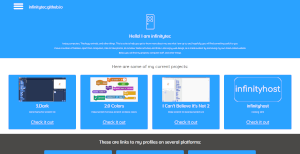
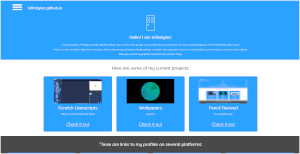
Add files via upload

diff --git a/wallpapers/wallpapers.html b/wallpapers/wallpapers.html
@@ -1,0 +1,85 @@
+<!DOCTYPE html>
+<html lang="en">
+
+<head>
+	<!--
+This is the PencilRevived theme, created by infinitytec.
+It is protected under the MIT License:
+Copyright 2019 infinitytec
+Permission is hereby granted, free of charge, to any person obtaining a copy of this software and associated documentation files (the "Software"), to deal in the Software without restriction, including without limitation the rights to use, copy, modify, merge, publish, distribute, sublicense, and/or sell copies of the Software, and to permit persons to whom the Software is furnished to do so, subject to the following conditions:
+The above copyright notice and this permission notice shall be included in all copies or substantial portions of the Software.
+THE SOFTWARE IS PROVIDED "AS IS", WITHOUT WARRANTY OF ANY KIND, EXPRESS OR IMPLIED, INCLUDING BUT NOT LIMITED TO THE WARRANTIES OF MERCHANTABILITY, FITNESS FOR A PARTICULAR PURPOSE AND NONINFRINGEMENT. IN NO EVENT SHALL THE AUTHORS OR COPYRIGHT HOLDERS BE LIABLE FOR ANY CLAIM, DAMAGES OR OTHER LIABILITY, WHETHER IN AN ACTION OF CONTRACT, TORT OR OTHERWISE, ARISING FROM, OUT OF OR IN CONNECTION WITH THE SOFTWARE OR THE USE OR OTHER DEALINGS IN THE SOFTWARE. 
+This theme is still a work-in-progress.
+-->
+	<meta charset="utf-8">
+	<meta name="viewport" content="width=device-width, initial-scale=1.0">
+	<title>infinitytec's wallpapers</title>
+	<link rel="stylesheet" type="text/css" href="../style/pencilrevived.css">
+	<link rel="shortcut icon" href="../style/icon.ico" type="image/x-icon" />
+	<script>
+		function menu() {
+			document.getElementById("navmenu").classList.toggle("show");
+		}
+
+		function closealert() {
+			document.getElementById("alert").classList.add("hide");
+		}
+
+	</script>
+</head>
+
+<body>
+	<nav>
+		<button class="hamburger" onclick="menu()"><img src="../style/hamburger.svg" alt="menu"></button>
+		<h1>infinitytec.github.io</h1>
+		<div id="navmenu">
+			<a href="../index.html">Back to Home</a>
+		</div>
+	</nav>
+	<main>
+		<section id="header" class="full blue">
+			<h1>Wallpapers</h1>
+			<p>Here is a collection of wallpapers you can use. Click to get the full resolution. Most are 4K.<br>Feel free to use them however!</p>
+		</section>
+		<section id="wallpapers" class="full grey">
+			<div class="box blue fancy">
+				<img src="preview/warp.png" alt="warp">
+				<h1>warp</h1>
+				<a href="fullresolution/warp.png" class="big">Check it out</a>
+			</div>
+			<div class="box blue fancy">
+				<img src="preview/warp2.png" alt="warp2">
+				<h1>warp2</h1>
+				<a href="fullresolution/warp2.png" class="big">Check it out</a>
+			</div>
+			<div class="box blue fancy">
+				<img src="preview/warp3.png" alt="warp3">
+				<h1>warp3</h1>
+				<a href="fullresolution/warp3.png" class="big">Check it out</a>
+			</div>
+			<div class="box blue fancy">
+				<img src="preview/warp4.png" alt="warp4">
+				<h1>warp4</h1>
+				<a href="fullresolution/warp4.png" class="big">Check it out</a>
+			</div>
+			<div class="box blue fancy">
+				<img src="preview/shards1.png" alt="shards1">
+				<h1>shards1</h1>
+				<a href="fullresolution/shards1.png" class="big">Check it out</a>
+			</div>
+			<div class="box blue fancy">
+				<img src="preview/shards2.png" alt="shards2">
+				<h1>shards2</h1>
+				<a href="fullresolution/shards2.png" class="big">Check it out</a>
+			</div>
+		</section>
+	</main>
+	<footer>
+		<p>Copyright &copy;2019, infinitytec. "infinitytec" and the door logo are trademarks of infinitytec. The theme to this site is Pencil Revived, &copy;2019 by infinitytec, under the MIT License.</p>
+		<a href="https://brave.com/inf454">
+			<p>Btw I accept BAT.</p>
+		</a>
+	</footer>
+</body>
+
+</html>

diff --git a/userscripts/userscripts.html b/userscripts/userscripts.html
@@ -1,0 +1,78 @@
+<!DOCTYPE html>
+<html lang="en">
+
+<head>
+	<!--
+This is the PencilRevived theme, created by infinitytec.
+It is protected under the MIT License:
+Copyright 2019 infinitytec
+Permission is hereby granted, free of charge, to any person obtaining a copy of this software and associated documentation files (the "Software"), to deal in the Software without restriction, including without limitation the rights to use, copy, modify, merge, publish, distribute, sublicense, and/or sell copies of the Software, and to permit persons to whom the Software is furnished to do so, subject to the following conditions:
+The above copyright notice and this permission notice shall be included in all copies or substantial portions of the Software.
+THE SOFTWARE IS PROVIDED "AS IS", WITHOUT WARRANTY OF ANY KIND, EXPRESS OR IMPLIED, INCLUDING BUT NOT LIMITED TO THE WARRANTIES OF MERCHANTABILITY, FITNESS FOR A PARTICULAR PURPOSE AND NONINFRINGEMENT. IN NO EVENT SHALL THE AUTHORS OR COPYRIGHT HOLDERS BE LIABLE FOR ANY CLAIM, DAMAGES OR OTHER LIABILITY, WHETHER IN AN ACTION OF CONTRACT, TORT OR OTHERWISE, ARISING FROM, OUT OF OR IN CONNECTION WITH THE SOFTWARE OR THE USE OR OTHER DEALINGS IN THE SOFTWARE. 
+This theme is still a work-in-progress.
+-->
+	<meta charset="utf-8">
+	<meta name="viewport" content="width=device-width, initial-scale=1.0">
+	<title>infinitytec's userscripts</title>
+	<link rel="stylesheet" type="text/css" href="../style/pencilrevived.css">
+	<link rel="shortcut icon" href="../style/icon.ico" type="image/x-icon" />
+	<script>
+		function menu() {
+			document.getElementById("navmenu").classList.toggle("show");
+		}
+
+		function closealert() {
+			document.getElementById("alert").classList.add("hide");
+		}
+
+	</script>
+</head>
+
+<body>
+	<nav>
+		<button class="hamburger" onclick="menu()"><img src="../style/hamburger.svg" alt="menu"></button>
+		<h1>infinitytec.github.io</h1>
+		<div id="navmenu">
+			<a href="../index.html">Back to Home</a>
+		</div>
+	</nav>
+	<main>
+		<section id="header" class="full blue">
+			<h1>Scratch Userscripts</h1>
+			<p>Here is a collection of Scratch userscripts I have made!</p>
+		</section>
+		<section id="userscripts" class="full white">
+			<div class="box blue fancy">
+				<img src="../style/3dark.png" alt="3dark">
+				<h1>3.Dark</h1>
+				<p>Dark theme for Scratch 3.0</p>
+				<a href="https://github.com/infinitytec/3.Dark" class="big">Check it out</a>
+			</div>
+			<div class="box blue fancy">
+				<img src="../style/2colors.png" alt="2colors">
+				<h1>2.0 Colors</h1>
+				<p>Make Scratch 3.0 have Scratch 2.0 block colors</p>
+				<a href="https://github.com/infinitytec/2.0-Colors" class="big">Check it out</a>
+			</div>
+			<div class="box blue fancy">
+				<img src="../style/2look.png" alt="not2">
+				<h1>I Can't Believe It's Not 2</h1>
+				<p>Make Scratch 3.0 look like Scratch 2.0</p>
+				<a href="https://github.com/infinitytec/I-Cant-Believe-Its-Not-2" class="big">Check it out</a>
+			</div>
+		</section>
+		<section class="full grey">
+			<h1>More eventually...</h1>
+			<h1>Probably...</h1>
+			<h1>Maybe...</h1>
+		</section>
+	</main>
+	<footer>
+		<p>Copyright &copy;2019, infinitytec. "infinitytec" and the door logo are trademarks of infinitytec. The theme to this site is Pencil Revived, &copy;2019 by infinitytec, under the MIT License.</p>
+		<a href="https://brave.com/inf454">
+			<p>Btw I accept BAT.</p>
+		</a>
+	</footer>
+</body>
+
+</html>

diff --git a/index.html b/index.html
@@ -15,6 +15,7 @@ This theme is still a work-in-progress.
 	<meta name="viewport" content="width=device-width, initial-scale=1.0">
 	<title>infinitytec</title>
 	<link rel="stylesheet" type="text/css" href="style/pencilrevived.css">
+	<link rel="shortcut icon" href="style/icon.ico" type="image/x-icon" />
 	<script>
 		function menu() {
 			document.getElementById("navmenu").classList.toggle("show");
@@ -50,22 +51,16 @@ This theme is still a work-in-progress.
 		<section id="projects" class="full white">
 			<h1>Here are some of my current projects:</h1>
 			<div class="box blue fancy">
-				<img src="style/3dark.png" alt="3dark">
-				<h1>3.Dark</h1>
-				<p>Dark theme for Scratch 3.0</p>
-				<a href="https://github.com/infinitytec/3.Dark" class="big">Check it out</a>
+				<img src="style/3dark.png" alt="userscripts">
+				<h1>Scratch Userscripts</h1>
+				<p>Things to make Scratch look better</p>
+				<a href="userscripts/userscripts.html" class="big">Check it out</a>
 			</div>
 			<div class="box blue fancy">
-				<img src="style/2colors.png" alt="2colors">
-				<h1>2.0 Colors</h1>
-				<p>Make Scratch 3.0 have Scratch 2.0 block colors</p>
-				<a href="https://github.com/infinitytec/2.0-Colors" class="big">Check it out</a>
-			</div>
-			<div class="box blue fancy">
-				<img src="style/2look.png" alt="not2">
-				<h1>I Can't Believe It's Not 2</h1>
-				<p>Make Scratch 3.0 look like Scratch 2.0</p>
-				<a href="https://github.com/infinitytec/I-Cant-Believe-Its-Not-2" class="big">Check it out</a>
+				<img src="style/wallpapers.png" alt="wallpapers">
+				<h1>Wallpapers</h1>
+				<p>Why not?</p>
+				<a href="wallpapers/wallpapers.html" class="big">Check it out</a>
 			</div>
 			<div class="box blue fancy">
 				<img src="style/pencilrevived.png" alt="pencilrevived">
@@ -126,7 +121,9 @@ This theme is still a work-in-progress.
 	</main>
 	<footer>
 		<p>Copyright &copy;2019, infinitytec. "infinitytec" and the door logo are trademarks of infinitytec. The theme to this site is Pencil Revived, &copy;2019 by infinitytec, under the MIT License.</p>
-                <a href="https://brave.com/inf454"><p>Btw I accept BAT.</p></a>
+		<a href="https://brave.com/inf454">
+			<p>Btw I accept BAT.</p>
+		</a>
 	</footer>
 </body>
 

diff --git a/style/pencilrevived.css b/style/pencilrevived.css
@@ -5,8 +5,8 @@ Permission is hereby granted, free of charge, to any person obtaining a copy of 
 The above copyright notice and this permission notice shall be included in all copies or substantial portions of the Software.
 THE SOFTWARE IS PROVIDED "AS IS", WITHOUT WARRANTY OF ANY KIND, EXPRESS OR IMPLIED, INCLUDING BUT NOT LIMITED TO THE WARRANTIES OF MERCHANTABILITY, FITNESS FOR A PARTICULAR PURPOSE AND NONINFRINGEMENT. IN NO EVENT SHALL THE AUTHORS OR COPYRIGHT HOLDERS BE LIABLE FOR ANY CLAIM, DAMAGES OR OTHER LIABILITY, WHETHER IN AN ACTION OF CONTRACT, TORT OR OTHERWISE, ARISING FROM, OUT OF OR IN CONNECTION WITH THE SOFTWARE OR THE USE OR OTHER DEALINGS IN THE SOFTWARE. 
 This theme is still a work-in-progress. */
-@import url('https://fonts.googleapis.com/css?family=Quicksand');
-/*The Quicksand font is licensed under the Open Font License. Learn more: http://scripts.sil.org/cms/scripts/page.php?site_id=nrsi&id=OFL_web*/
+@import url('https://fonts.googleapis.com/css?family=Comfortaa|Quicksand&display=swap');
+/*The Quicksand and Comfortaa fonts are licensed under the Open Font License. Learn more: http://scripts.sil.org/cms/scripts/page.php?site_id=nrsi&id=OFL_web*/
 
 @media screen {
 
@@ -15,8 +15,9 @@ This theme is still a work-in-progress. */
 	main {
 		margin: 0;
 		padding: 0;
-		font-family: Quicksand;
+		font-family: 'Quicksand', sans-serif;
 		scroll-behavior: smooth;
+		text-rendering: geometricPrecision;
 	}
 
 	.box a.big {
@@ -171,7 +172,7 @@ This theme is still a work-in-progress. */
 	nav a,
 	button.close {
 		border: 2px solid white;
-		font-family: Quicksand;
+		font-family: 'Quicksand', sans-serif;
 	}
 
 	nav button.hamburger {
@@ -285,12 +286,12 @@ This theme is still a work-in-progress. */
 		width: calc(100% - 8em);
 		padding: 1em 4em;
 		background: #2aa2ff;
-		font-family: "comfortaa";
+		font-family: 'Comfortaa', cursive;
 		color: white;
 	}
 
         footer a {
-                font-family: "comfortaa";
+                font-family: 'Comfortaa', cursive;
                 color: white;
         }
 
